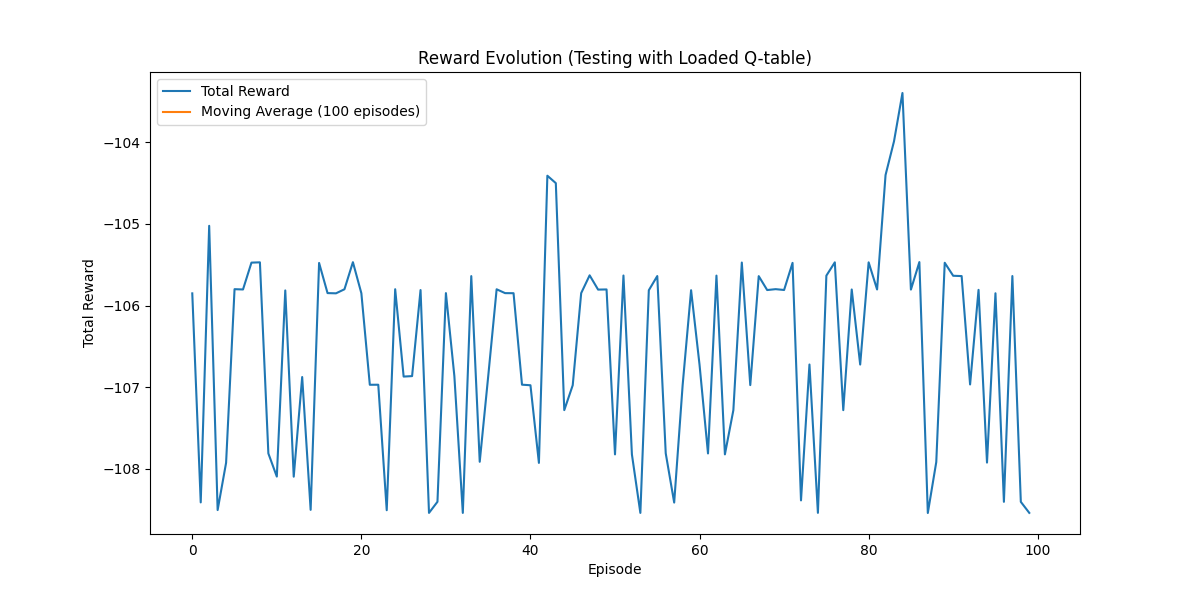
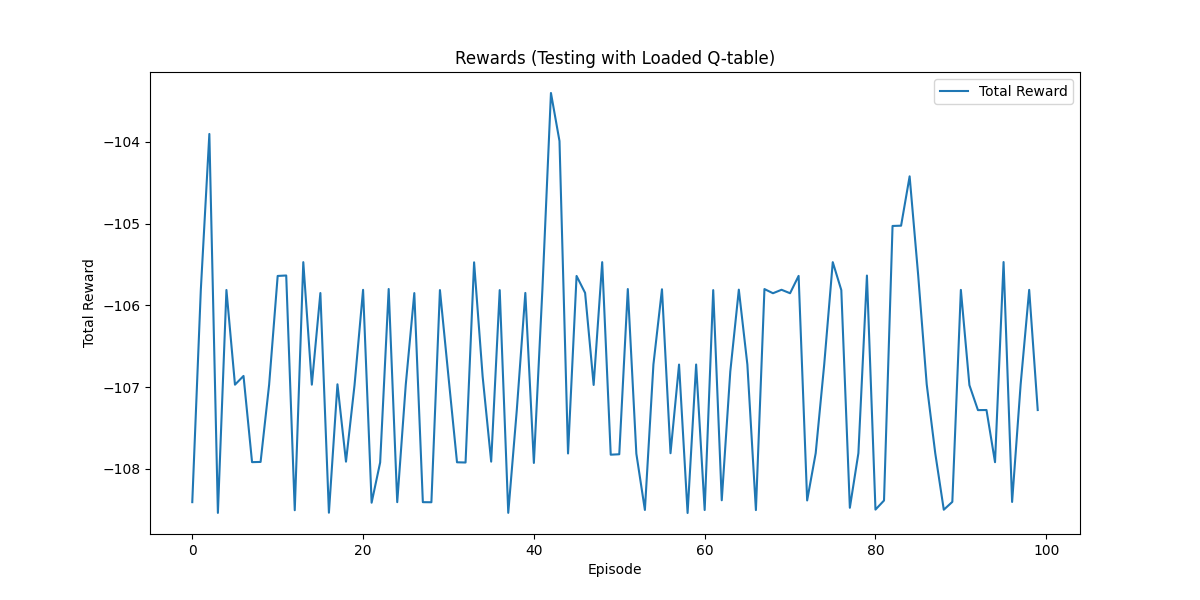
all qtable results

diff --git a/QTable/test.py b/QTable/test.py
@@ -19,7 +19,7 @@ if mode == range:
     obs_buckets = 1
 
 # Carica la Q-table addestrata
-filename = f'qtable_{mode}.dill'  
+filename = f'qtable_{mode}.dill'
 qtable = load_qtable(filename)
 # Crea l'ambiente
 env = gym.make("BipedalWalker-v3", render_mode = 'human')
@@ -109,14 +109,6 @@ def undiscretizeAction(action):
     action = (np.array(action) / (act_buckets - 1)) * (env.action_space.high - env.action_space.low) + env.action_space.low
     return tuple(action)
 
-window_size = 100
-def moving_average(data, window_size=window_size):
-    moving_averages = []
-    for i in range(len(data) - window_size + 1):
-        window = data[i:i + window_size]
-        window_average = np.mean(window)
-        moving_averages.append(window_average)
-    return moving_averages
 
 # Testa la Q-table caricata
 test_rewards = test_qtable(env, qtable, episodes=100, render=False)
@@ -124,10 +116,8 @@ test_rewards = test_qtable(env, qtable, episodes=100, render=False)
 # Plot dei premi per gli episodi di test
 plt.figure(figsize=(12, 6))
 plt.plot(test_rewards, label='Total Reward')
-if len(test_rewards) >= window_size:
-    plt.plot(range(window_size, len(test_rewards) + 1), moving_average(test_rewards), label='Moving Average (100 episodes)')
 plt.xlabel('Episode')
 plt.ylabel('Total Reward')
-plt.title('Reward Evolution (Testing with Loaded Q-table)')
+plt.title('Rewards (Testing with Loaded Q-table)')
 plt.legend()
 plt.savefig(f'Rewards {mode}.png')
